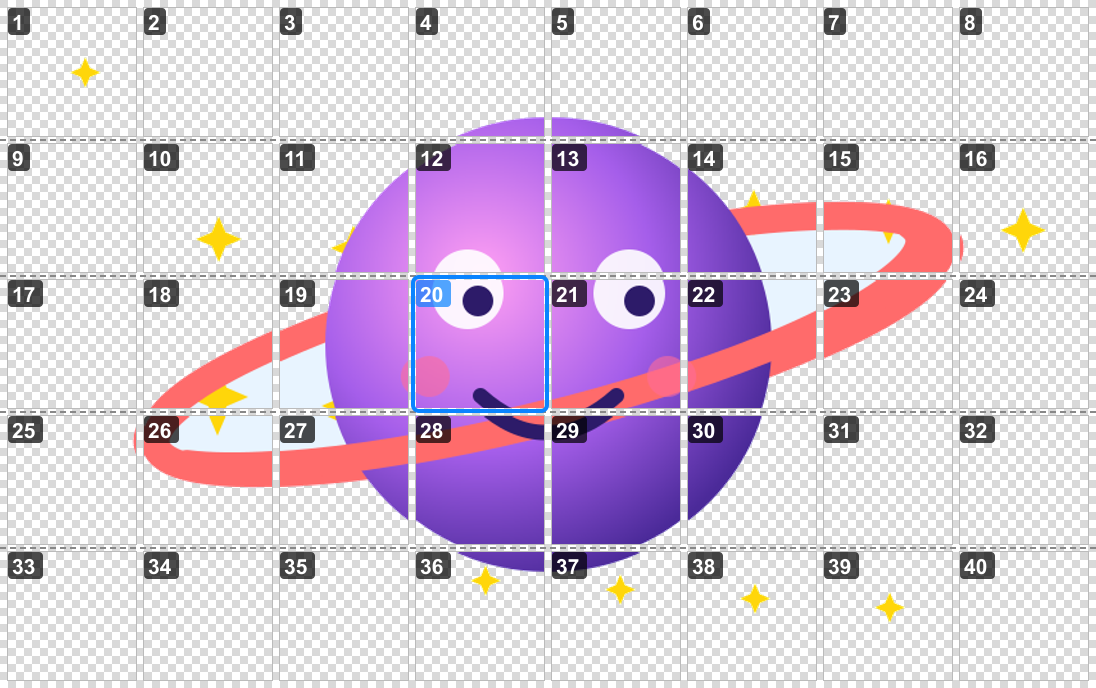
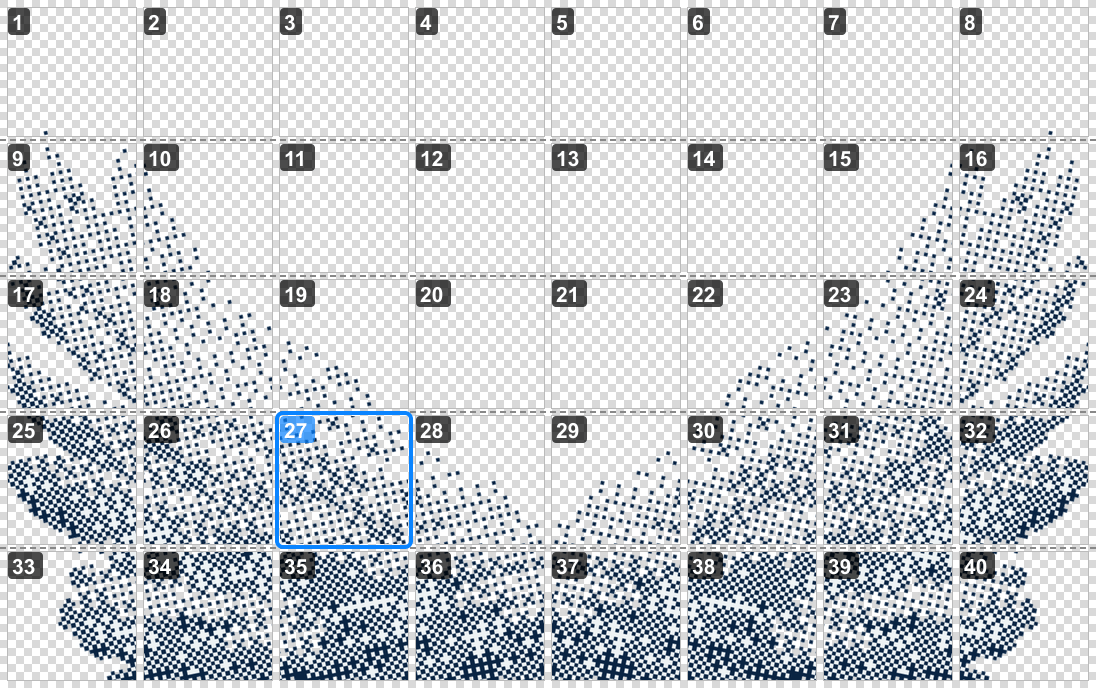
docs: пример в README — крылья в стиле «Последствий»

diff --git a/README.md b/README.md
@@ -77,7 +77,7 @@ The bot's interface is in Russian; button labels are given below as they appear 
 After creation the bot sends a preview of the finished pack: tiles are laid out by grid rows and numbered. Tap a number to:
 
 <p align="center">
-  <img src="docs/editor.png" alt="Pack editor: numbered tiles, #20 selected" width="700">
+  <img src="docs/editor.png" alt="Pack editor: numbered tiles, #27 selected" width="700">
 </p>
 
 - ⬅➡⬆⬇ — move the sticker (up/down moves it by a row);
